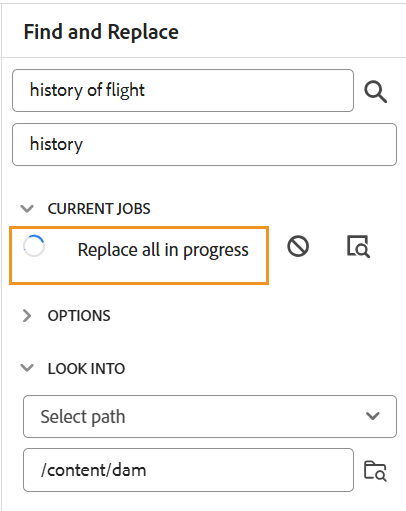
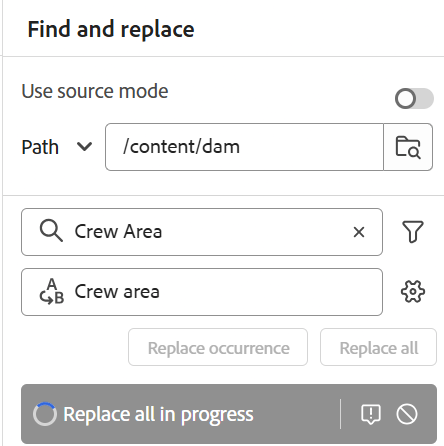
made some updates to the find and replace article

diff --git a/help/product-guide/user-guide/web-editor-left-panel.md b/help/product-guide/user-guide/web-editor-left-panel.md
@@ -1052,27 +1052,26 @@ Experience Manager Guides allows you to create and manage variables for Native P
 
 The Find and replace icon is located at the bottom of the left panel. The Find and replace panel allows you to search for and replace text across files in a map or a folder within your repository. You can perform Find and replace operations across all topics in a map, including topics in sub-maps and Markdown files.
 
-By default, you can view the files by titles. As you hover over a file, you can view the file title and the file path as a tooltip. 
-
-The Find and Replace feature can be used in two distinct modes, depending on your search requirements:
-
-
-- **Source mode enabled:** The search scans not only the visible content in Author view but also the underlying XML structure, including elements, tags, and attribute values. This mode ensures a comprehensive search across both content and metadata.
+By default, you can view the files by titles. As you hover over a file, you can view the file title and the file path as a tooltip.
 
 >[!NOTE]
 >
-> By default, Source mode is disabled. However, this setting is part of User preferences. If you change the preference to Author, the updated state will be reflected after a refresh.
+> As an administrator, you can also choose to view the list of filenames in the Editor. Select the **File name** option of the **Editor files display configuration** section in **User preferences**.
 
-![](images/map-find-replace-with-source-mode.png){align="left"}
+The Find and Replace feature can be used in two distinct modes, depending on your search requirements:
+
+- **Source mode enabled:** The search scans not only the visible content in Author view but also the underlying XML structure, including elements, tags, and attribute values. This mode ensures a comprehensive search across both content and metadata. 
+
+    >[!NOTE]
+    >
+    > The Source mode feature is not available by default for Experience Manager Guides as a Cloud Service. If you prefer to continue use this feature, contact your Customer Success team to have the new features disabled.
+
+    ![](images/map-find-replace-with-source-mode.png){align="left"}
 
 
 - **Source mode disabled:** The search is restricted to the text displayed in the Author view, focusing solely on the visible content without examining XML elements or attributes. This mode is ideal for quick, content-only searches.
 
     ![](images/map-find-replace-without-source-mode.png){align="left"}
-
->[!NOTE]
->
-> As an administrator, you can also choose to view the list of filenames in the Editor. Select the **File name** option of the **Editor files display configuration** section in **User preferences**.
 
 <details>
     <summary> Perform the global search and replace with the Source mode disabled </summary>
@@ -1090,8 +1089,7 @@ To perform the global search and replace, perform the following steps:
         >
         > This option appears if you have already opened a map for editing.
 
-    - **Select Map**: To search in the selected map
-
+    **Select Map**: To search in the selected map from the **Select path** icon adjacent to the Path field.
 1. Enter the search term or text in the **Find** field. To narrow down results, select the **Filter** icon next to the Find field and select the following desired filters: 
 
       
@@ -1117,7 +1115,7 @@ To perform the global search and replace, perform the following steps:
 
 1. Select a file from the search result list. The file is opened in the content editing area with the searched term highlighted in the content.
 
-1. Select **Replace occurrence** button to replace the currently highlighted search term in the topic or select the Top and bottom arrows to move to the next or previous occurrence of the text
+1. Select **Replace occurrence** button to replace the currently highlighted search term in the topic or select the top and bottom arrows to move to the next or previous occurrence of the text
 
     ![](images/replace-occurrence.png){align="left"}
 
@@ -1125,7 +1123,7 @@ To perform the global search and replace, perform the following steps:
 
     ![](images/replace-all.png){align="left"}
 
-To enable the **Replace all** icon, your system administrator must select the option **Enable Replace All** under the **General** tab in **Workspace settings** (appearing as **Settings** for **On-Prem**).
+To enable the **Replace all** icon, your system Administrator must select the option **Enable Replace All** under the **General** tab in **Workspace settings** (appearing as **Settings** for **On-Prem**).
 
 >[!NOTE]
 >
@@ -1143,7 +1141,7 @@ You can also use the **Find in map** option from the **Options** menu of a map t
 
 
 <details>
-    <summary> Perform the global search and replace with the Source mode enabled </summary>
+    <summary> Perform global search and replace with the Source mode enabled </summary>
 
 To perform the global search and replace with the Source mode enabled, perform the following steps:
 
@@ -1158,7 +1156,7 @@ To perform the global search and replace with the Source mode enabled, perform t
         >
         > This option appears if you have already opened a map for editing.
 
-    - **Select Map**: To search in the selected map
+    - **Select Map**: To search in the selected map from the **Select path** icon adjacent to the Path field. 
 
 1. Enter the search term or text in the **Find** field. To narrow down results, select the **Filter** icon next to the Find field and select the following desired filters: 
 
@@ -1183,7 +1181,7 @@ To perform the global search and replace with the Source mode enabled, perform t
 
     - **Create new version after replace**: Select this option if you want to create a new version of the topic in which you choose to replace the text. You can also provide version comments which will be added with each updated file. If you don't select this option, then the changes are saved in the current version of the topic and no new version is created.
 
-    ![](images/replace-settings.png){align="left"}    
+    ![](images/replace-settings-source-mode.png){align="left"}    
 
 
 1. Press Enter or select **Search** icon to perform the search.
@@ -1212,7 +1210,7 @@ To enable the **Replace all** icon, your system administrator must select the op
 
 Only one replace all operation can be performed at a time in the whole system, and till the time operation is being performed you will view "Replace all in progress" status. You can also abort the replace all operation in between or view the log report. If you abort the operation, you will receive a notification about it in your Inbox. You will be shown a success notification after replacing all the occurrences in the selected file.
 
-![](images/replace-all-in-progress.png){width="300" align="left"}
+![](images/replace-all-in-progress-source-mode.png){width="300" align="left"}
 
 You can also use the **Find in map** option from the **Options** menu of a map to find and replace text in a map. This option appears for a map opened in the repository panel or in the map view.
 
